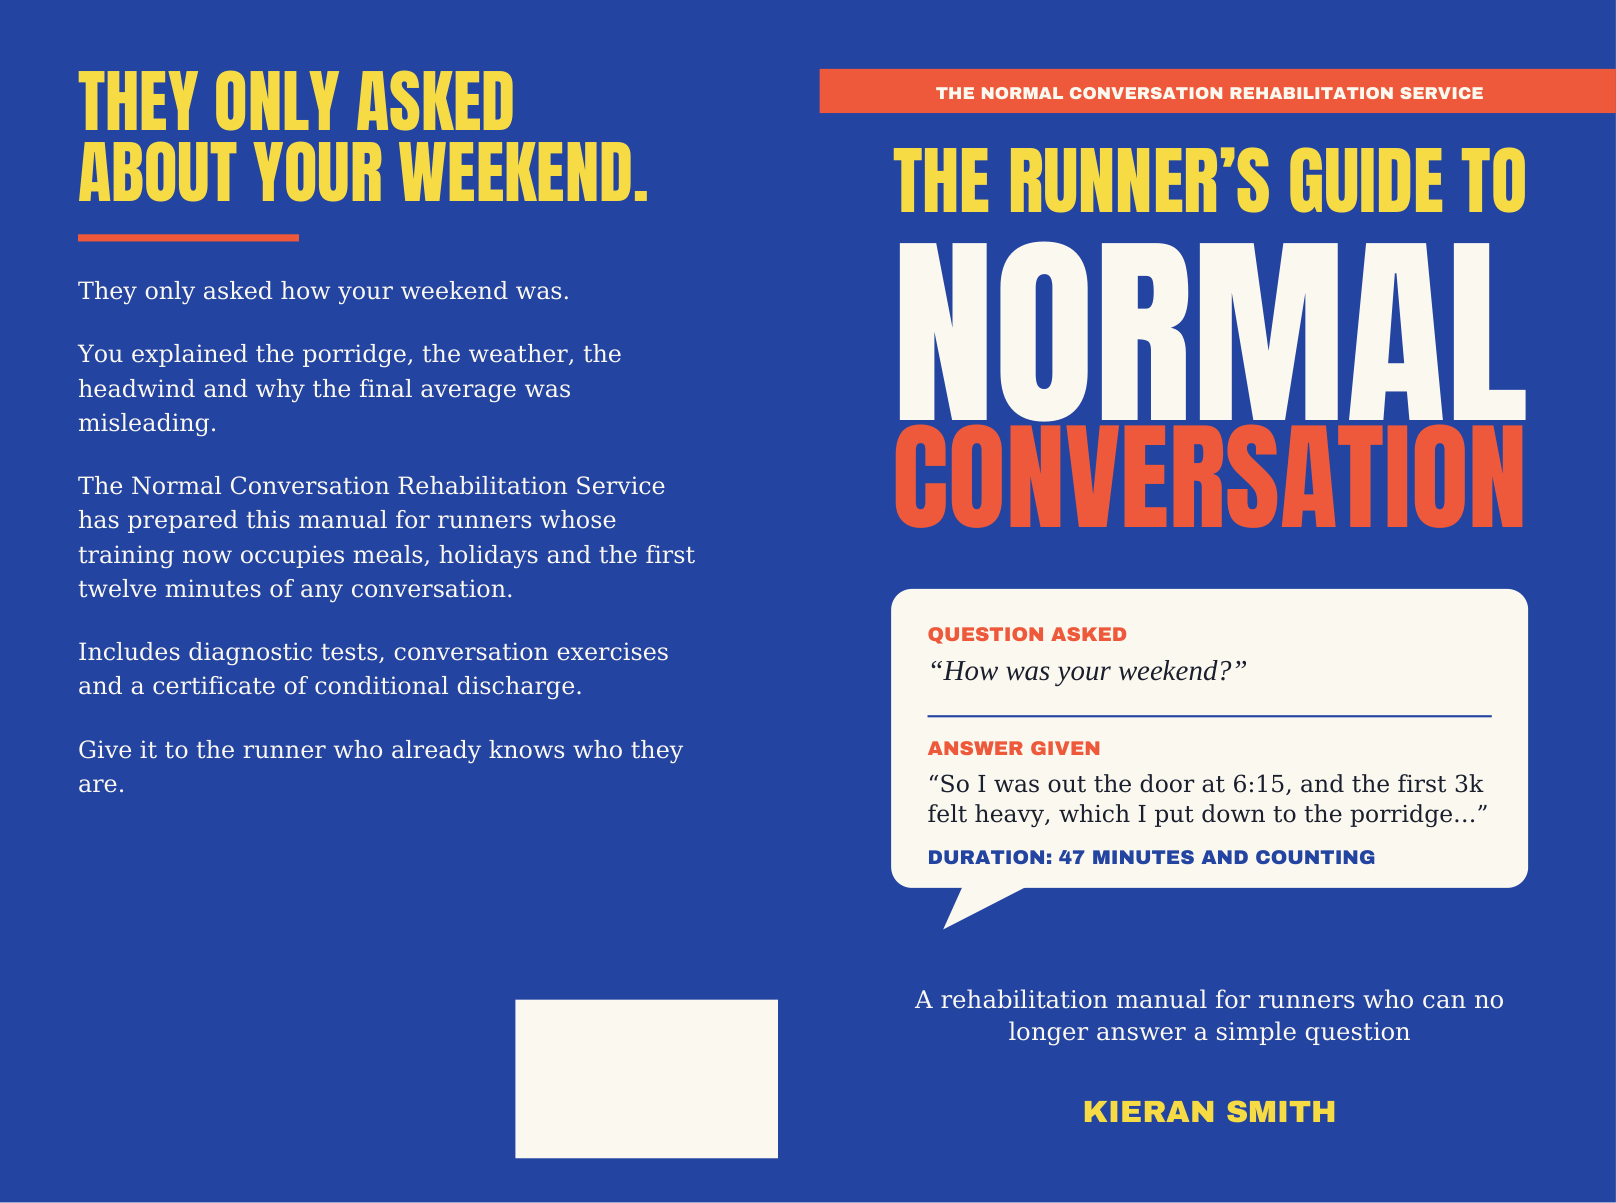
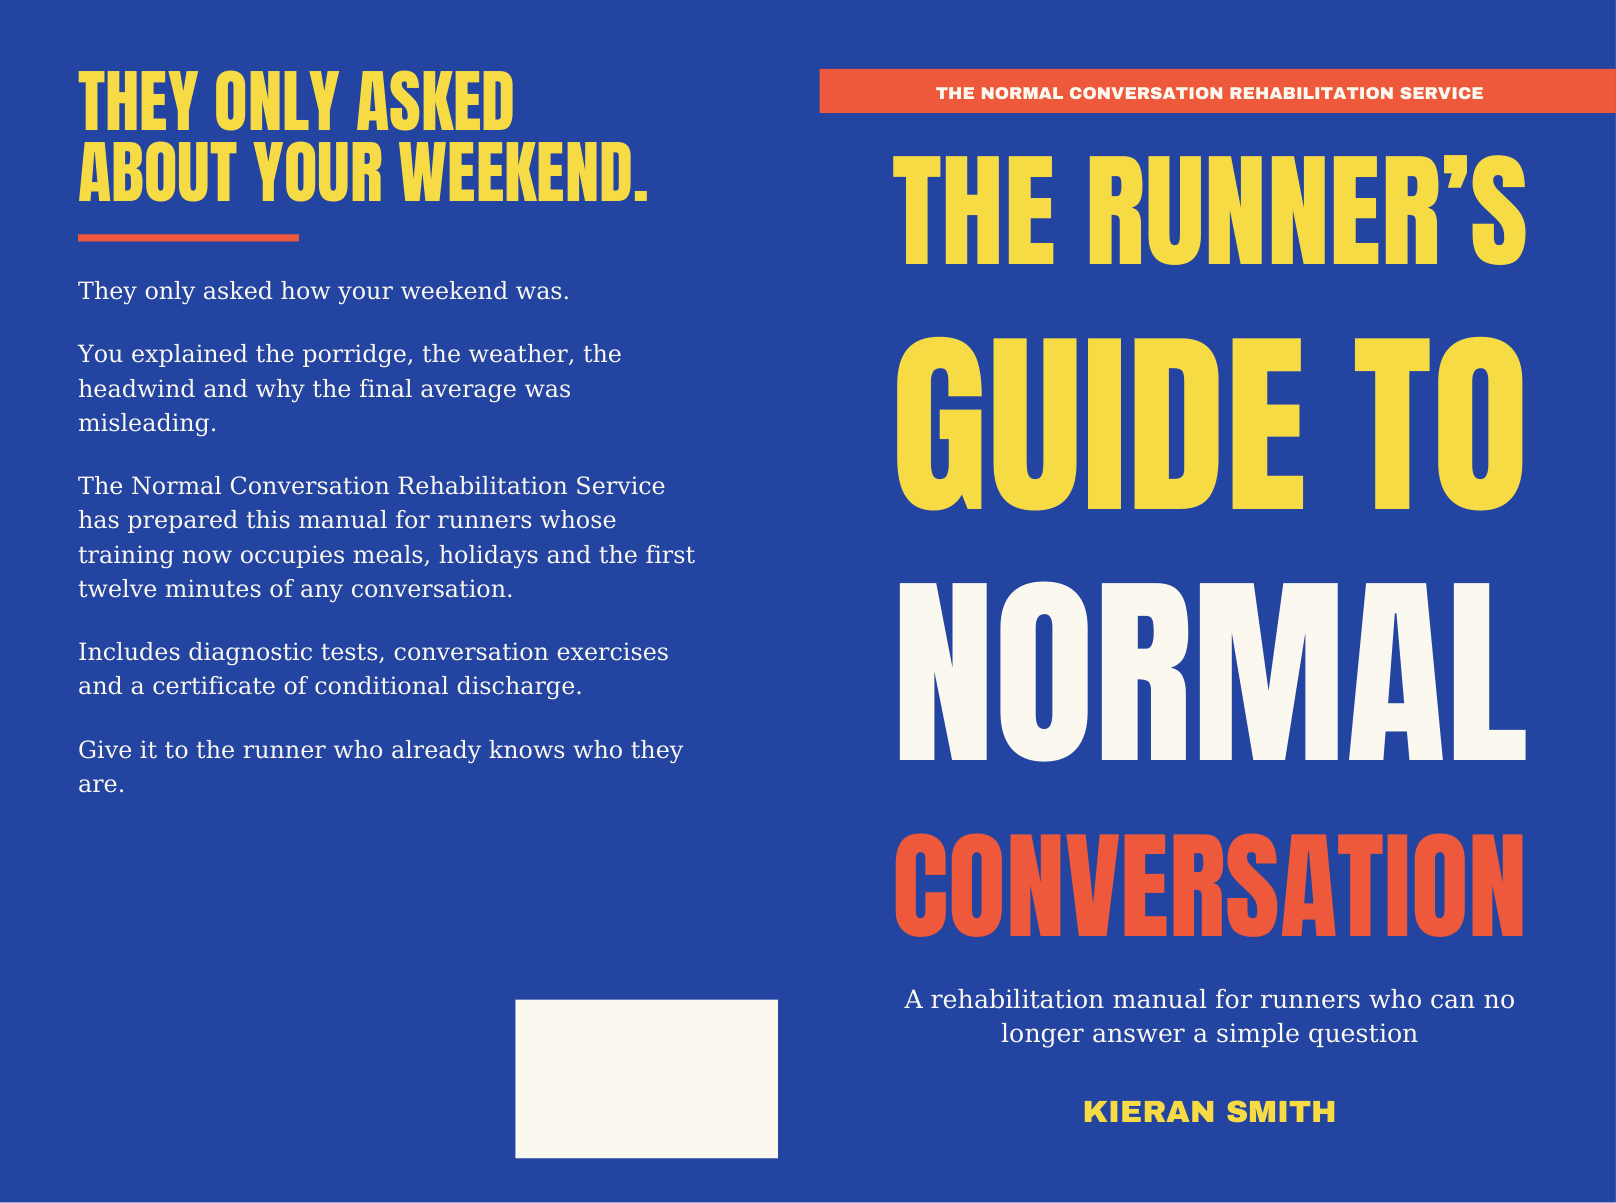
Fill text-only cover front with spaced title instead of speech bubble
Claude-Session: https://claude.ai/code/session_01ApHY7RxDQjypXeP1WW9bpa

Changed region(s): [[0.526, 0.123, 0.9592, 0.8919]]

diff --git a/books/runners-guide-to-normal-conversation/cover/build_cover_text_v2.py b/books/runners-guide-to-normal-conversation/cover/build_cover_text_v2.py
@@ -32,7 +32,6 @@ THUMB = OUT / "cover-v2-text-only-amazon-thumbnail.png"
 pdfmetrics.registerFont(TTFont("Title", str(FONTS / "Anton-Regular.ttf")))
 pdfmetrics.registerFont(TTFont("Heavy", str(FONTS / "ArchivoBlack-Regular.ttf")))
 pdfmetrics.registerFont(TTFont("Body", "/usr/share/fonts/truetype/dejavu/DejaVuSerif.ttf"))
-pdfmetrics.registerFont(TTFont("BodyItalic", "/usr/share/fonts/truetype/liberation/LiberationSerif-Italic.ttf"))
 
 inch = 72
 d = cover.dimensions(BOOK)
@@ -47,7 +46,6 @@ front_centre = (front_left + front_right) / 2
 
 BLUE = HexColor("#2445a2")
 PAPER = HexColor("#fbf8f1")
-INK = HexColor("#1b1f2e")
 YELLOW = HexColor("#f6dc45")
 CORAL = HexColor("#ed5a3a")
 
@@ -95,58 +93,36 @@ c.rect(front_fold, 8.38 * inch, d["trim_width_in"] * inch + d["bleed_in"] * inch
        0.34 * inch, fill=1, stroke=0)
 centred("THE NORMAL CONVERSATION REHABILITATION SERVICE", 8.49 * inch, "Heavy", 9.5, PAPER)
 
-# The title dominates: it has to read at Amazon thumbnail size on its own.
-centred("THE RUNNER’S GUIDE TO", 7.62 * inch, "Title", 44, YELLOW)
-centred("NORMAL", 6.02 * inch, "Title", 160, PAPER)
-centred("CONVERSATION", 5.20 * inch, "Title", 90, CORAL)
-
-# The joke, typeset as a speech bubble: the question, then the answer.
-bubble_top, bubble_bottom = 4.72 * inch, 2.42 * inch
-c.setFillColor(PAPER)
-c.roundRect(front_left, bubble_bottom, front_width, bubble_top - bubble_bottom,
-            0.16 * inch, fill=1, stroke=0)
-tail = c.beginPath()
-tail.moveTo(front_left + 0.55 * inch, bubble_bottom + 1)
-tail.lineTo(front_left + 0.40 * inch, bubble_bottom - 0.32 * inch)
-tail.lineTo(front_left + 1.05 * inch, bubble_bottom + 1)
-tail.close()
-c.drawPath(tail, fill=1, stroke=0)
-
-text_left = front_left + 0.28 * inch
-c.setFillColor(CORAL)
-c.setFont("Heavy", 11)
-c.drawString(text_left, 4.32 * inch, "QUESTION ASKED")
-c.setFillColor(INK)
-c.setFont("BodyItalic", 16)
-c.drawString(text_left, 4.02 * inch, "“How was your weekend?”")
-
-c.setStrokeColor(BLUE)
-c.setLineWidth(1.2)
-c.line(text_left, 3.74 * inch, front_right - 0.28 * inch, 3.74 * inch)
-
-c.setFillColor(CORAL)
-c.setFont("Heavy", 11)
-c.drawString(text_left, 3.44 * inch, "ANSWER GIVEN")
-c.setFillColor(INK)
-c.setFont("Body", 13)
-answer = ("“So I was out the door at 6:15, and the first 3k felt heavy, "
-          "which I put down to the porridge…”")
-baseline = 3.16 * inch
-for line in wrap_words(answer, front_width - 0.56 * inch, "Body", 13):
-    c.drawString(text_left, baseline, line)
-    baseline -= 17
-c.setFillColor(BLUE)
-c.setFont("Heavy", 11)
-c.drawString(text_left, baseline - 6, "DURATION: 47 MINUTES AND COUNTING")
+# The title fills the front on its own: each line is set as wide as the
+# front allows, and the lines are spread evenly down the space between the
+# strap and the subtitle. It has to read at Amazon thumbnail size.
+CAP_HEIGHT = {name: pdfmetrics.getFont(name).face.capHeight / 1000 for name in ("Title",)}
+title_lines = [
+    ("THE RUNNER’S", YELLOW),
+    ("GUIDE TO", YELLOW),
+    ("NORMAL", PAPER),
+    ("CONVERSATION", CORAL),
+]
+sizes = [fit(text, "Title", 200, front_width) for text, _ in title_lines]
+# Every line is as wide as the front allows, with equal space between lines.
+gap_weights = [1.0, 1.0, 1.0]
+region_top, region_bottom = 8.05 * inch, 2.05 * inch
+caps = [size * CAP_HEIGHT["Title"] for size in sizes]
+unit = (region_top - region_bottom - sum(caps)) / sum(gap_weights)
+top = region_top
+for index, ((text, colour), size, cap) in enumerate(zip(title_lines, sizes, caps)):
+    centred(text, top - cap, "Title", size, colour)
+    if index < len(gap_weights):
+        top -= cap + unit * gap_weights[index]
 
 # Subtitle, then the author.
 c.setFillColor(PAPER)
-c.setFont("Body", 13.5)
+c.setFont("Body", 14)
 baseline = 1.50 * inch
 for line in wrap_words("A rehabilitation manual for runners who can no longer "
-                       "answer a simple question", front_width, "Body", 13.5):
+                       "answer a simple question", front_width, "Body", 14):
     c.drawCentredString(front_centre, baseline, line)
-    baseline -= 18
+    baseline -= 19
 centred(cover.load(BOOK)["author"].upper(), 0.62 * inch, "Heavy", 17, YELLOW)
 
 # ----------------------------------------------------------------- back

diff --git a/books/runners-guide-to-normal-conversation/releases/KDP-UPLOAD.md b/books/runners-guide-to-normal-conversation/releases/KDP-UPLOAD.md
@@ -11,7 +11,7 @@ approval. The operator chooses the cover and presses Publish.
 | --- | --- | --- |
[4 lines of base64/hex data omitted]
 
 Upload **one** cover. Choose "Upload a cover you already have (print-ready
 PDF only)". Do not use Cover Creator.
